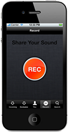
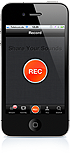
Adding iPad picture to progress view

diff --git a/Sources/SoundCloudUI/SCRecordingUploadProgressView.m b/Sources/SoundCloudUI/SCRecordingUploadProgressView.m
@@ -410,19 +410,33 @@
             
             if ([UIDevice isIPad]) {
                 offset.y += 16;
+                self.resultImage.image = [SCBundle imageWithName:@"ipad"];
+                [self.resultImage sizeToFit];
+                
+                self.resultImage.frame = CGRectMake(offset.x - 15,
+                                                    offset.y,
+                                                    180,
+                                                    144);
+
+                self.resultImage.clipsToBounds = YES;
+                self.resultImage.contentMode = UIViewContentModeTop;
+                
+                offset.y += CGRectGetHeight(self.resultImage.frame) + 6;
             } else {
                 offset.y += 8;
+                self.resultImage.image = [SCBundle imageWithName:@"iphone"];
+                self.resultImage.frame = CGRectMake(offset.x,
+                                                    offset.y,
+                                                    70,
+                                                    151);
+                
+                self.resultImage.clipsToBounds = YES;
+                self.resultImage.contentMode = UIViewContentModeTop;
+                
+                offset.y += CGRectGetHeight(self.resultImage.frame);
             }
             
-            self.resultImage.image = [SCBundle imageWithName:@"iphone"];
-            [self.resultImage sizeToFit];
-            self.resultImage.frame = CGRectMake(offset.x + 6,
-                                                offset.y,
-                                                CGRectGetWidth(self.resultImage.frame),
-                                                CGRectGetHeight(self.resultImage.frame));
-            
-            offset.y += CGRectGetHeight(self.resultImage.frame);
-            
+            CGFloat imagePadding = [UIDevice isIPad] ? 28: 10;
             if ([self appURL]) {
                 self.openAppButton.hidden = NO;
                 self.openAppStoreButton.hidden = YES;
@@ -431,20 +445,26 @@
                 NSMutableAttributedString *text = [NSMutableAttributedString attributedStringWithString:SCLocalizedString(@"record_save_upload_success_message_app", @"See who's commenting on your sounds by opening it in the SoundCloud app.")];
                 [text setFont:self.resultText.font];
                 self.resultText.attributedText = text;
+
+                CGSize resultTextSize = [self.resultText sizeThatFits:CGSizeMake(innerWitdh - 3 - CGRectGetWidth(self.resultImage.frame) - imagePadding,
+                                                                                 CGFLOAT_MAX)];
                 
-                self.resultText.frame = CGRectMake(CGRectGetMaxX(self.resultImage.frame) + 10,
+                self.resultText.frame = CGRectMake(CGRectGetMaxX(self.resultImage.frame) + imagePadding,
                                                    CGRectGetMinY(self.resultImage.frame) + 6,
-                                                   innerWitdh - 3 - CGRectGetWidth(self.resultImage.frame) - 10,
-                                                   CGRectGetHeight(self.resultImage.frame) - 12 - CGRectGetHeight(self.openAppButton.frame));
+                                                   resultTextSize.width,
+                                                   resultTextSize.height);
                 
-                self.openAppButton.frame = CGRectMake(CGRectGetMaxX(self.resultImage.frame) + 10,
-                                                      CGRectGetMaxY(self.resultImage.frame) - CGRectGetHeight(self.openAppButton.frame) - 3,
+                self.openAppButton.frame = CGRectMake(CGRectGetMaxX(self.resultImage.frame) + imagePadding,
+                                                      CGRectGetMaxY(self.resultText.frame) + 20,
                                                       CGRectGetWidth(self.openAppButton.frame),
                                                       CGRectGetHeight(self.openAppButton.frame));
                 
                 offset.x = horizontalMargin;
-                offset.y = CGRectGetMaxY(self.openAppButton.frame);
-                
+                offset.y = fmaxf(CGRectGetMaxY(self.openAppButton.frame), CGRectGetMaxY(self.resultImage.frame));
+
+                if (![UIDevice isIPad]) {
+                    offset.y -= 8;
+                }
             } else {
                 self.openAppButton.hidden = YES;
                 self.openAppStoreButton.hidden = NO;
@@ -462,18 +482,25 @@
                 
                 self.resultText.attributedText = text;
                 
-                self.resultText.frame = CGRectMake(CGRectGetMaxX(self.resultImage.frame) + 10,
-                                                   CGRectGetMinY(self.resultImage.frame) + 6,
-                                                   innerWitdh - 3 - CGRectGetWidth(self.resultImage.frame) - 10,
-                                                   CGRectGetHeight(self.resultImage.frame) - 12 - CGRectGetHeight(self.openAppStoreButton.frame));
+                CGSize resultTextSize = [self.resultText sizeThatFits:CGSizeMake(innerWitdh - 3 - CGRectGetWidth(self.resultImage.frame) - imagePadding,
+                                                                                 CGFLOAT_MAX)];
                 
-                self.openAppStoreButton.frame = CGRectMake(CGRectGetMaxX(self.resultImage.frame) + 10,
-                                                      CGRectGetMaxY(self.resultImage.frame) - CGRectGetHeight(self.openAppStoreButton.frame) - 3,
-                                                      CGRectGetWidth(self.openAppStoreButton.frame),
-                                                      CGRectGetHeight(self.openAppStoreButton.frame));
+                self.resultText.frame = CGRectMake(CGRectGetMaxX(self.resultImage.frame) + imagePadding,
+                                                   CGRectGetMinY(self.resultImage.frame) + 6,
+                                                   resultTextSize.width,
+                                                   resultTextSize.height);
+                
+                self.openAppStoreButton.frame = CGRectMake(CGRectGetMaxX(self.resultImage.frame) + imagePadding,
+                                                           CGRectGetMaxY(self.resultText.frame) + 10,
+                                                           CGRectGetWidth(self.openAppStoreButton.frame),
+                                                           CGRectGetHeight(self.openAppStoreButton.frame));
                 
                 offset.x = horizontalMargin;
-                offset.y = CGRectGetMaxY(self.openAppStoreButton.frame);
+                offset.y = fmaxf(CGRectGetMaxY(self.openAppStoreButton.frame), CGRectGetMaxY(self.resultImage.frame));
+                
+                if (![UIDevice isIPad]) {
+                    offset.y -= 8;
+                }
             }
             break;
         }
